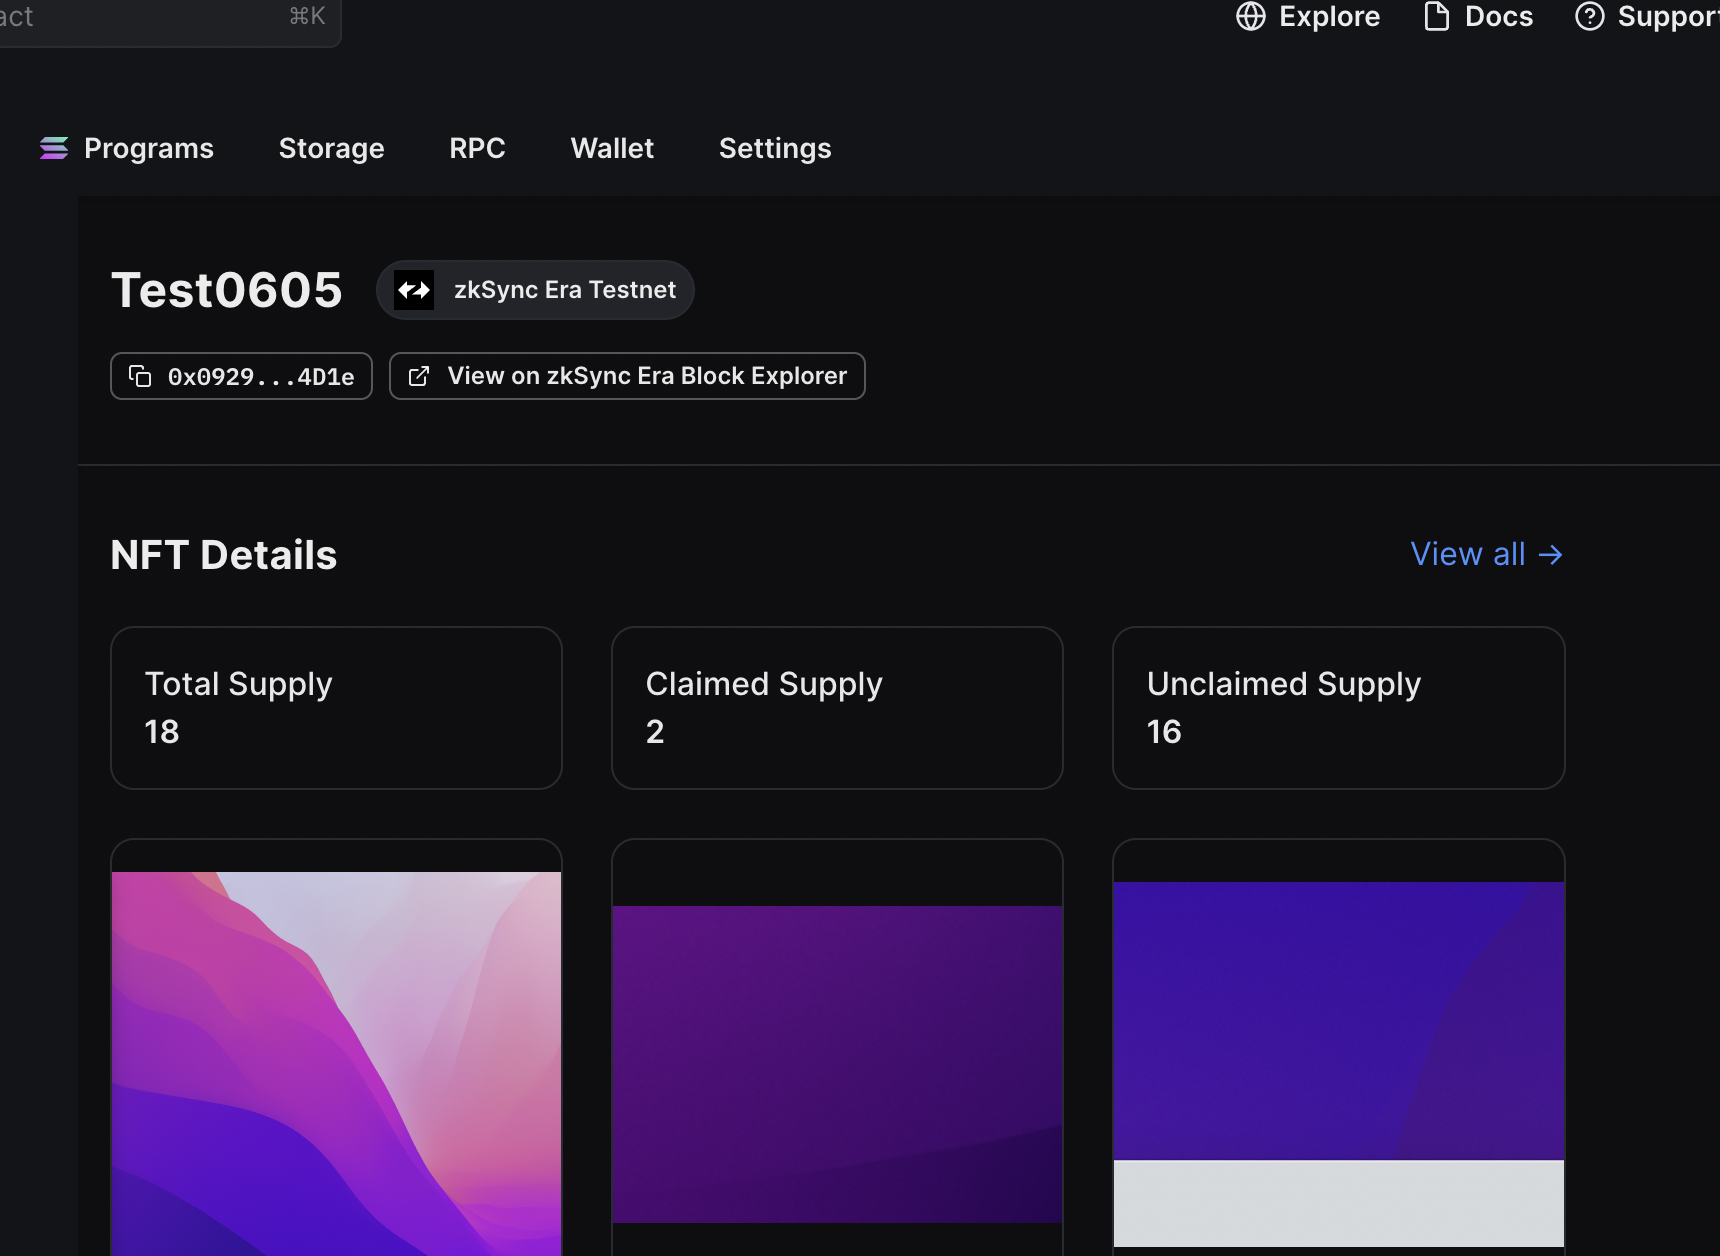
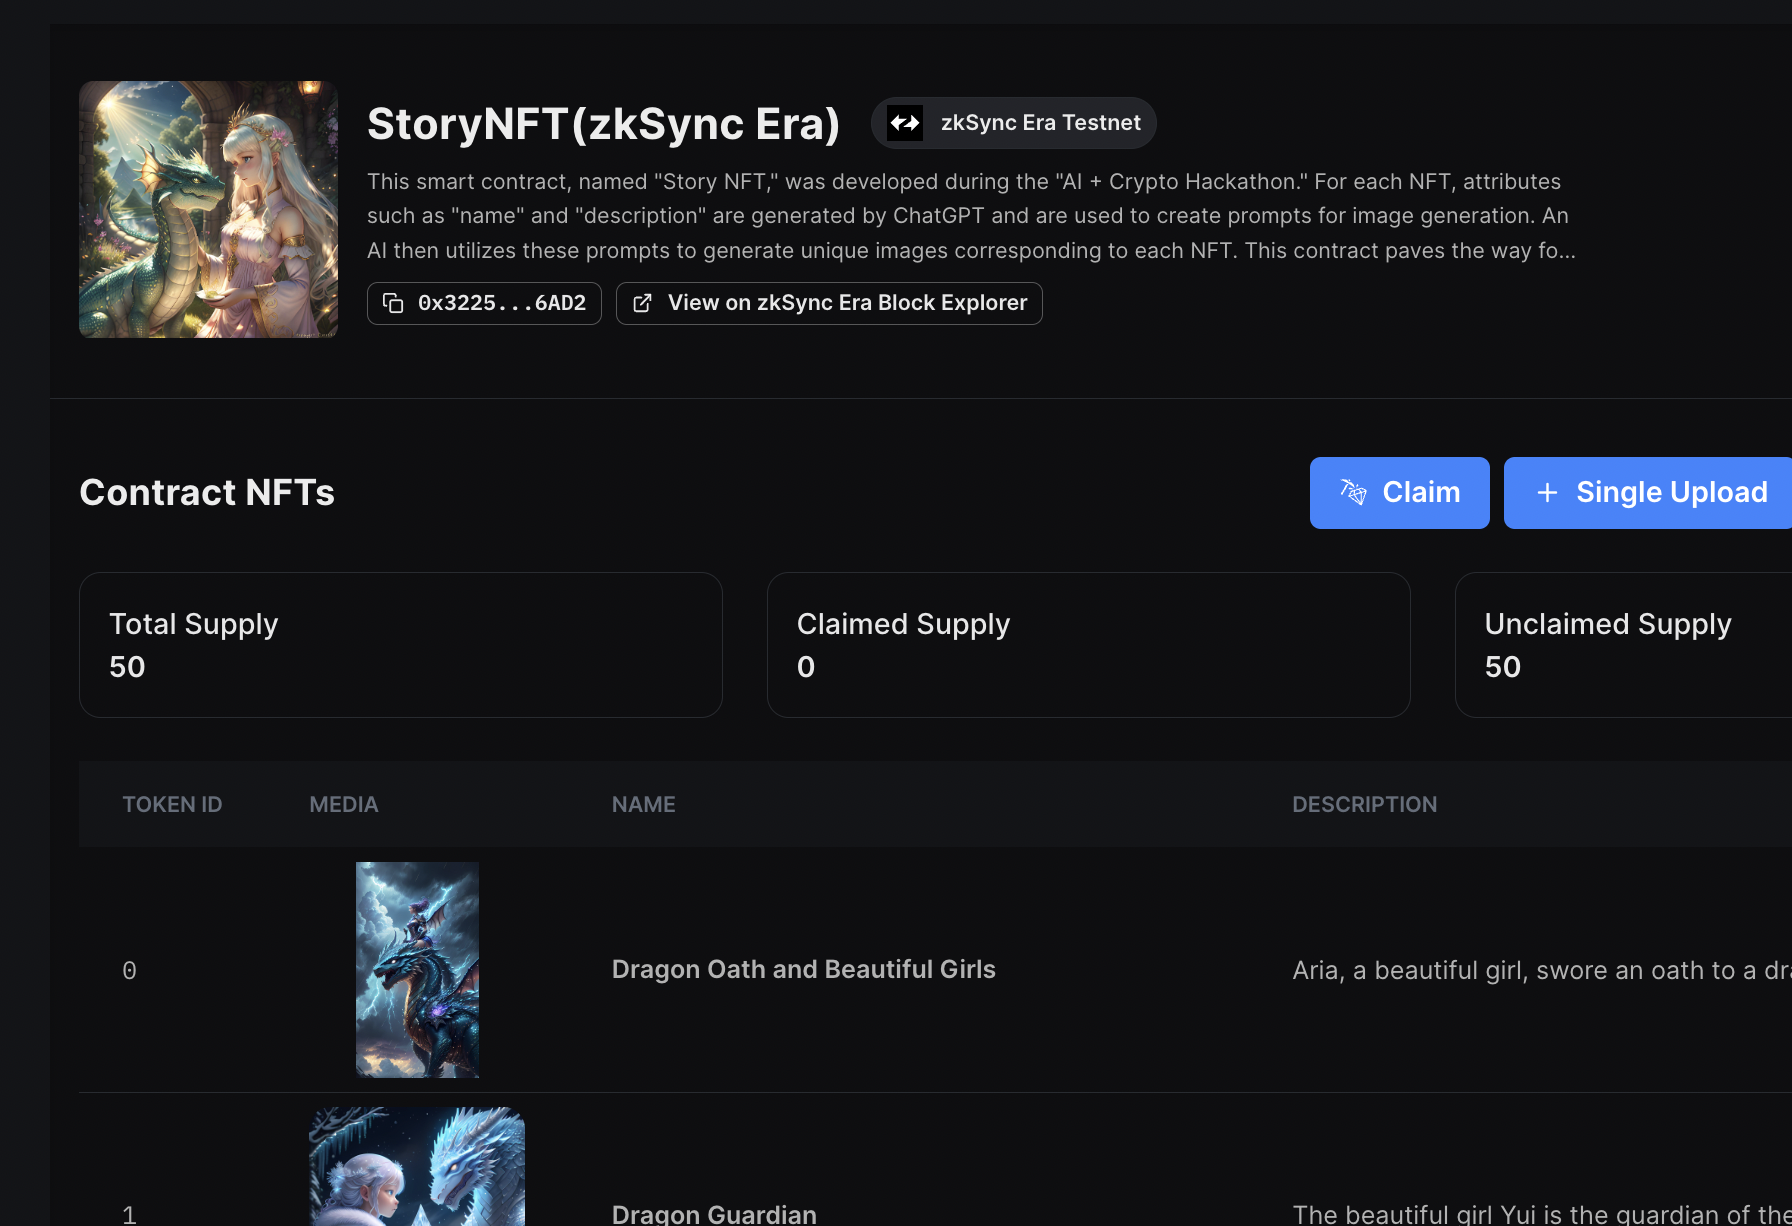
readmeの変更

diff --git a/README.md b/README.md
@@ -1,4 +1,4 @@
-# 0 プロジェクトの概要1
+# 0 プロジェクトの概要
 
 このプロジェクトは大きく次の３点から構成されます。
 
@@ -9,6 +9,9 @@
 以下、それぞれの説明です。
 
 # 1 AIによるストーリーNFTの作成について
+
+![](images/21.png)
+
 
 ## 0 導入の理由
 
@@ -79,22 +82,13 @@ Ethereumは **「ブロックチェーンのトリレンマ」** のうち、「
 
 **zkEVM**はこの「セキュリティ」と「分散化」を損なうことなく、「スケーラビリティ」を解決する手段の一つであるため、採用しました。
 
-## 1 作成済みURL
-
-**NFT画像の表示**と**メタマスクによるclaim**を行います。
-
-zksync Era Testnetで作成したプロジェクトはこちらです。
-
-https://zksync-era-testnet-garelly.vercel.app/
-
-![](images/2.png)
-
+## 1 作成済みコントラクト
 
 zksync Era Testnetの**コントラクト**はこちら
 
 ![](images/3.png)
 
-https://thirdweb.com/zksync-era-testnet/0x0929624DFbFdA73cdC67dfEEA269003d380A4D1e
+https://thirdweb.com/zksync-era-testnet/0x322565EcD421a9FE92331b8FcF2E0B1B14B16AD2/nfts
 
 ## 2 スマートウォレットについて
 
@@ -284,6 +278,16 @@ https://thirdweb.com/mumbai/0x4AD8B5a13114d44183f68250898cB546CADd8c54
 
 以上が**スマートウォレットを使用したNFTの取得**になります。
 
+# 4 Astar Networkでのコントラクト・Garellyページの作成
+
+- URL
+https://hackathon-story-nft-astar.vercel.app/
+
+- コントラクトアドレス
+https://thirdweb.com/astar/0xa92d7e8eC2152B951F19746c4EcaC2768B7827Be
+
+![](images/20.png)
+
 ## Getting Started
 
 Create a project using this example:
@@ -304,8 +308,6 @@ Deploy a copy of your application to IPFS using the following command:
 ```bash
 yarn deploy
 ```
-
-## Learn More
 
 To learn more about thirdweb and Next.js, take a look at the following resources:
 
